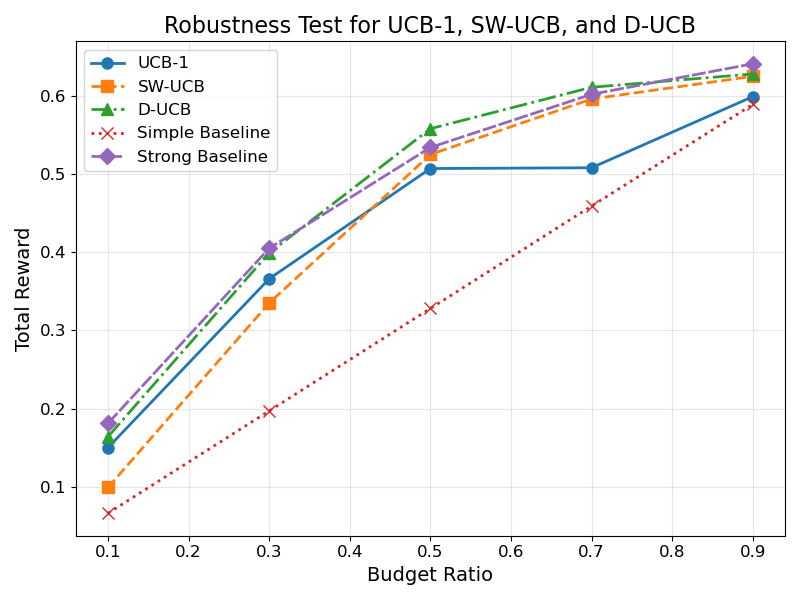
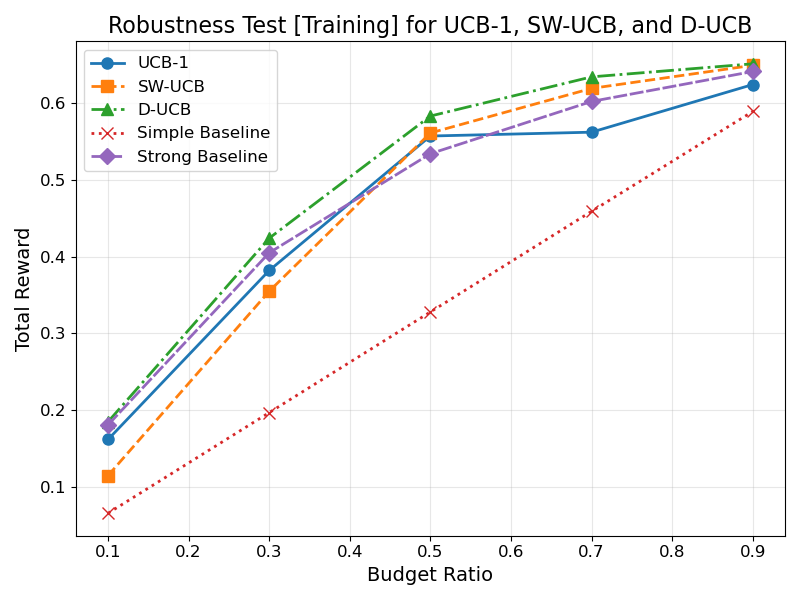
update

diff --git a/UCBtest.py b/UCBtest.py
@@ -287,16 +287,12 @@ def robustness_test(agent_type, budget_ratios):
 
     for budget_ratio in budget_ratios:
         env = ROFARS_v1(budget_ratio=budget_ratio)
-
-        if agent_type in [1, 2, 3]:
-            env.reset(mode='train')
-        elif agent_type in [4, 5]:
-            env.reset(mode='test')
+        env.reset(mode='test')
 
         if agent_type == 1:
             agent = UCBAgent()
             agent.initialize(env.n_camera)
-            env.reset(mode='test')
+
 
             for t in range(env.length):
                 action = agent.get_action()
@@ -312,7 +308,7 @@ def robustness_test(agent_type, budget_ratios):
         elif agent_type == 2:
             agent = SlidingWindowUCBAgent(window_size=best_window_size)
             agent.initialize(env.n_camera)
-            env.reset(mode='test')
+
 
             for t in range(env.length):
                 action = agent.get_action()
@@ -328,7 +324,7 @@ def robustness_test(agent_type, budget_ratios):
         elif agent_type == 3:
             agent = DiscountedUCBAgent(gamma=best_gamma)
             agent.initialize(env.n_camera)
-            env.reset(mode='test')
+
 
             for t in range(env.length):
                 action = agent.get_action()
@@ -343,8 +339,8 @@ def robustness_test(agent_type, budget_ratios):
 
 
         elif agent_type == 4:
-            env.reset(mode='train')
-            agent = baselineAgent(agent_type='simple')
+
+            agent = baselineAgent(agent_type='simple', theta=0)
             # give random scores as the initial action
             init_action = np.random.rand(env.n_camera)
             reward, state, stop = env.step(init_action)
@@ -362,8 +358,7 @@ def robustness_test(agent_type, budget_ratios):
             total_reward = env.get_total_reward()
             rewards.append(total_reward)
         elif agent_type == 5:
-            env.reset(mode='train')
-            agent = baselineAgent(agent_type='strong')
+            agent = baselineAgent(agent_type='strong', theta=0)
             # give random scores as the initial action
             init_action = np.random.rand(env.n_camera)
             reward, state, stop = env.step(init_action)
@@ -410,13 +405,13 @@ if __name__ == '__main__':
 
     plt.xlabel("Budget Ratio", fontsize=14)
     plt.ylabel("Total Reward", fontsize=14)
-    plt.title("Robustness Test for UCB-1, SW-UCB, and D-UCB", fontsize=16)
+    plt.title("Robustness Test [Testing] for UCB-1, SW-UCB, and D-UCB", fontsize=16)
     plt.legend(fontsize=12)
     plt.grid(alpha=0.3)
     plt.xticks(fontsize=12)
     plt.yticks(fontsize=12)
     plt.tight_layout()
-    plt.savefig("Robustness_Test_Academic.png")
+    plt.savefig("Robustness_Test_Academic_testing.png")
     plt.show()
 
 
